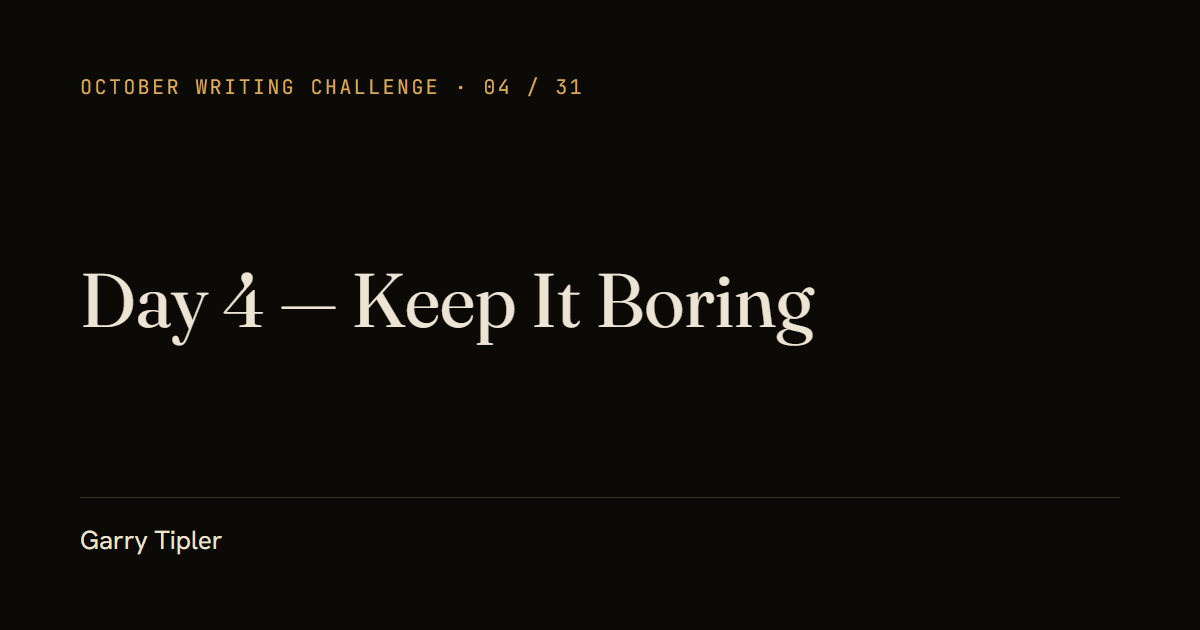
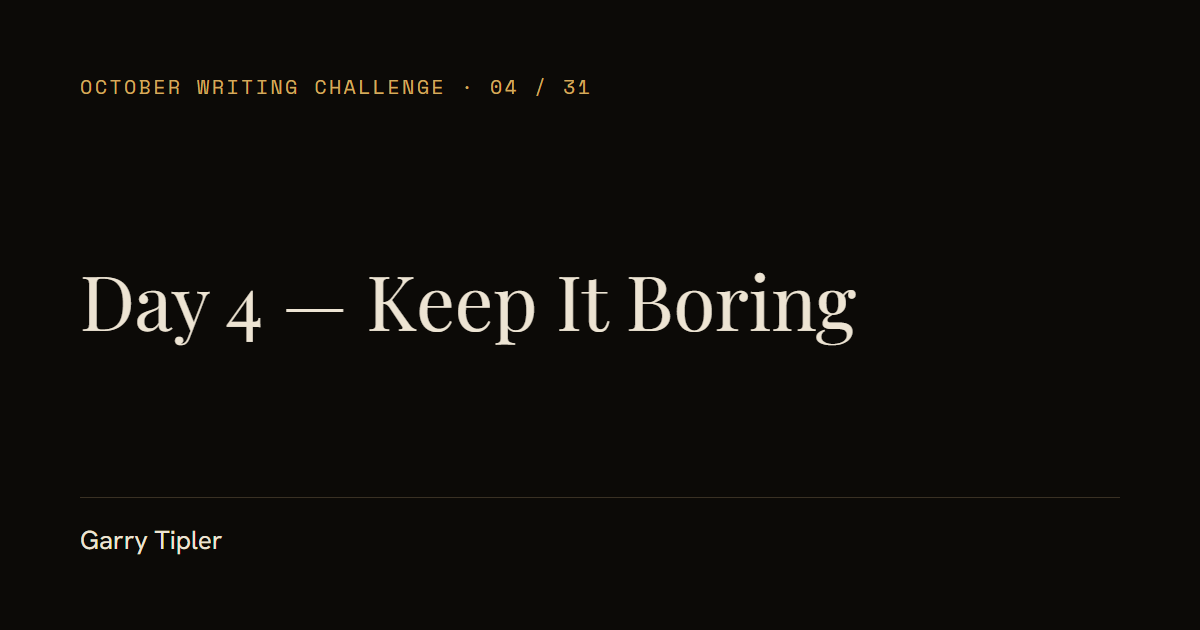
feat: regenerate October social cards in the new typography
The social-card template now uses Playfair Display and Space Mono, and the
Day 1-5 cards are re-exported at 1200x630 to match.

Changed region(s): [[0.0617, 0.4222, 0.7092, 0.573], [0.0617, 0.1206, 0.37, 0.1508], [0.4008, 0.1206, 0.4933, 0.1508]]

diff --git a/scripts/templates/october-social-card.html b/scripts/templates/october-social-card.html
@@ -4,14 +4,14 @@
     <meta charset="UTF-8" />
     <meta name="viewport" content="width=device-width, initial-scale=1" />
     <title>{{title}}</title>
-    <link rel="stylesheet" href="https://fonts.googleapis.com/css2?family=Fraunces:opsz,wght@9..144,400&amp;family=Hanken+Grotesk:wght@400&amp;family=JetBrains+Mono:wght@400&amp;display=block" />
+    <link rel="stylesheet" href="https://fonts.googleapis.com/css2?family=Playfair+Display:wght@400&amp;family=Hanken+Grotesk:wght@400&amp;family=Space+Mono:wght@400&amp;display=block" />
     <style>
       * { box-sizing: border-box; }
       html, body { margin: 0; width: 1200px; height: 630px; overflow: hidden; }
       body { background: #0c0a07; color: #ede4d3; }
       .card { width: 1200px; height: 630px; padding: 72px 80px; display: flex; flex-direction: column; }
-      .series { margin: 0; color: #d4ab5f; font: 400 20px/1.5 "JetBrains Mono", monospace; letter-spacing: 0.12em; }
-      .title { margin: auto 0; font: 400 76px/1.12 "Fraunces", Georgia, serif; font-optical-sizing: auto; overflow-wrap: anywhere; }
+      .series { margin: 0; color: #d4ab5f; font: 400 20px/1.5 "Space Mono", monospace; letter-spacing: 0.12em; }
+      .title { margin: auto 0; font: 400 76px/1.12 "Playfair Display", Georgia, serif; overflow-wrap: anywhere; }
       .author { margin: 0; padding-top: 24px; border-top: 1px solid #3a3124; font: 400 26px/1.4 "Hanken Grotesk", sans-serif; }
     </style>
   </head>

diff --git a/docs/new-writing-workflow.md b/docs/new-writing-workflow.md
@@ -146,7 +146,7 @@ Each published October entry uses `/assets/social/october-2026/<slug>.png` for O
 Before validating a new publication:
 
 1. Run `node scripts/prepare-october-social-cards.mjs --serve`. It reads the validated published October metadata and prepares HTML previews from `scripts/templates/october-social-card.html`, under the untracked `artifacts/october-social-cards/` directory. It serves only those previews at `http://127.0.0.1:4322/<slug>/`.
-2. Open the new entry's preview using browser tooling, set the viewport to **1200 × 630**, and wait for Fraunces, Hanken Grotesk, and JetBrains Mono to finish loading. Check the complete title, day number, and author fit within the card with no clipped text. Long titles require a visual review of wrapping before export.
+2. Open the new entry's preview using browser tooling, set the viewport to **1200 × 630**, and wait for Playfair Display, Hanken Grotesk, and Space Mono to finish loading. Check the complete title, day number, and author fit within the card with no clipped text. Long titles require a visual review of wrapping before export.
 3. Save the **1200 × 630 screenshot** to `assets/social/october-2026/<slug>.png`, then run `node scripts/prepare-october-social-cards.mjs --encode`. Browser APIs may return JPEG bytes regardless of the filename; this step uses Astro's already-installed Sharp encoder to convert those exports to PNG, checks dimensions, and leaves existing PNGs alone. Keep existing cards unless their metadata changes. Reset the browser viewport and stop the preview server when finished.
 4. Run the existing writing-tool tests and `npm.cmd run validate`. Build verification rejects a missing card, invalid PNG dimensions, incorrect metadata, or a card inserted as an article image. Commit the PNG with the daily publication.
 
